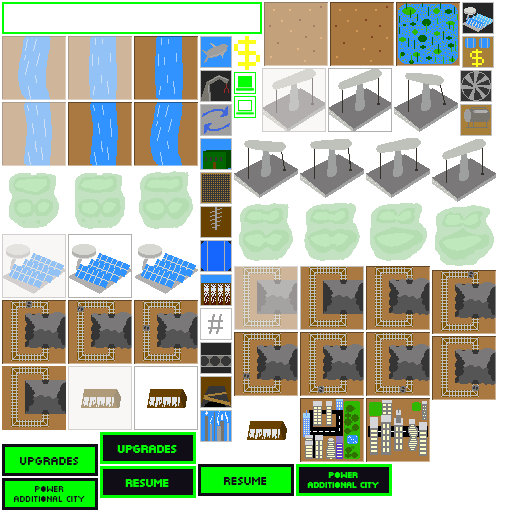
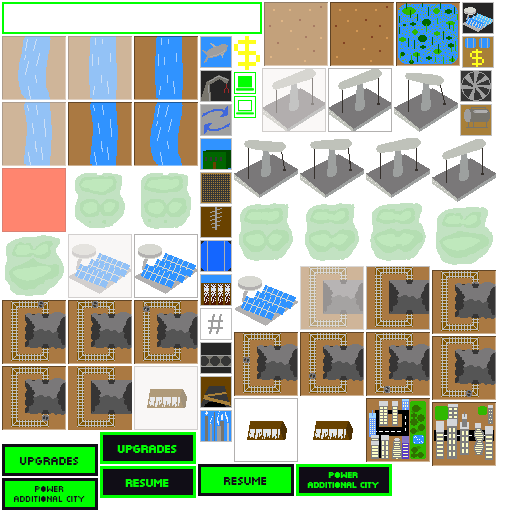
show effected tiles by pollution when building

diff --git a/src/systems/build_gatherer.rs b/src/systems/build_gatherer.rs
@@ -1,7 +1,7 @@
 use components::ui::WalletUI;
-use components::{ui::TutorialUI, upgrade::Buff, AnimationSheet, Button, ClickSound, Color,
+use components::{ui::TutorialUI, upgrade::Buff, AnimationSheet, Button, ClickSound, Color, EffectedByPollutionTiles,
                  EntityLookup, Gatherer, GathererPositions, GathererType, Input, Node,
-                 ResearchedBuffs, SelectedTile, Text, Tile, TileNodes, TileType, Transform,
+                 ResearchedBuffs, SelectedTile, Sprite, Text, Tile, TileNodes, TileType, Transform,
                  TutorialStep, Wallet};
 use entities::tutorial;
 use specs::{Entities, Join, Read, ReadStorage, System, Write, WriteStorage};
@@ -10,6 +10,15 @@ use systems::logic;
 
 pub struct BuildGatherer;
 
+impl BuildGatherer {
+    fn remove_effected_by_pollution_tiles_entities(&self, entities: &Entities, effected_by_pollution_tiles: &mut EffectedByPollutionTiles) {
+        for entity in &effected_by_pollution_tiles.tiles {
+            entities.delete(*entity).unwrap();
+        }
+        effected_by_pollution_tiles.clear();
+    }
+}
+
 impl<'a> System<'a> for BuildGatherer {
     type SystemData = (
         Entities<'a>,
@@ -17,6 +26,7 @@ impl<'a> System<'a> for BuildGatherer {
         WriteStorage<'a, Button>,
         Write<'a, ClickSound>,
         WriteStorage<'a, Color>,
+        WriteStorage<'a, EffectedByPollutionTiles>,
         Read<'a, EntityLookup>,
         WriteStorage<'a, Gatherer>,
         Write<'a, GathererPositions>,
@@ -25,6 +35,7 @@ impl<'a> System<'a> for BuildGatherer {
         Read<'a, TileNodes>,
         Read<'a, ResearchedBuffs>,
         ReadStorage<'a, SelectedTile>,
+        WriteStorage<'a, Sprite>,
         WriteStorage<'a, Text>,
         WriteStorage<'a, Transform>,
         Write<'a, TutorialStep>,
@@ -40,6 +51,7 @@ impl<'a> System<'a> for BuildGatherer {
             mut button_storage,
             mut click_sound_storage,
             mut color_storage,
+            mut effected_by_pollution_tiles_storage,
             entity_lookup_storage,
             mut gatherer_storage,
             mut gatherer_positions_storage,
@@ -48,6 +60,7 @@ impl<'a> System<'a> for BuildGatherer {
             tile_nodes_storage,
             researched_buffs_storage,
             selected_tile_storage,
+            mut sprite_storage,
             mut text_storage,
             mut transform_storage,
             tutorial_step_storage,
@@ -61,9 +74,73 @@ impl<'a> System<'a> for BuildGatherer {
         let wallet: &mut Wallet = wallet_storage.deref_mut();
         let lookup = entity_lookup_storage.deref();
 
+        let mut selected_tile_x = 0.0;
+        let mut selected_tile_y = 0.0;
+
+        for (_, transform) in (&selected_tile_storage, &mut transform_storage).join() {
+            if transform.visible {
+                selected_tile_x = transform.get_pos().x;
+                selected_tile_y = transform.get_pos().y;
+            }
+        }
+
+        let selected_tile_col = (selected_tile_x / Tile::get_size()) as i32;
+        let selected_tile_row = (selected_tile_y / Tile::get_size()) as i32;
+
+        let tile_nodes = tile_nodes_storage.deref();
+
         let mut button_pressed = false;
         let mut gatherer_type = None;
-        for button in (&mut button_storage).join() {
+        for (button, effected_by_pollution_tiles) in (&mut button_storage, &mut effected_by_pollution_tiles_storage).join() {
+            if button.name != "build_solar" {
+                if button.mouse_is_over && !effected_by_pollution_tiles.has_entities() {
+                    for i in -1..2 {
+                        for j in -1..2 {
+                            if button.name == "build_hydro" && (i != 0 || j != 0) {
+                                continue;
+                            } else if button.name != "build_hydro" && i == 0 && j == 0 {
+                                continue;
+                            }
+
+                            if let Some(&(tile_type, _)) = tile_nodes
+                                .nodes
+                                .get(&(selected_tile_col + i, selected_tile_row + j))
+                            {
+                                if tile_type != TileType::Open {
+                                    let entity = entities.create();
+                                    transform_storage.insert(
+                                        entity,
+                                        Transform::visible(
+                                            selected_tile_x + (i as f32) * Tile::get_size(),
+                                            selected_tile_y + (j as f32) * Tile::get_size(),
+                                            4.0,
+                                            64,
+                                            64,
+                                            0.0,
+                                            1.0,
+                                            1.0
+                                        )
+                                    ).unwrap();
+                                    sprite_storage.insert(
+                                        entity,
+                                        Sprite{
+                                            frame_name: "pollution_warning.png".to_string(),
+                                        }
+                                    ).unwrap();
+
+                                    effected_by_pollution_tiles.tiles.push(entity.clone());
+
+                                    let node = logic::get_root(&lookup, &mut nodes_storage);
+                                    node.add(entity);
+                                }
+                            }
+                        }
+                    }
+                } else if !button.mouse_is_over && effected_by_pollution_tiles.has_entities() {
+                    self.remove_effected_by_pollution_tiles_entities(&entities, effected_by_pollution_tiles);
+                }
+            }
+
             if button.name == "build_coal" && button.clicked(&input) {
                 button_pressed = true;
                 gatherer_type = Some(GathererType::Coal);
@@ -86,8 +163,6 @@ impl<'a> System<'a> for BuildGatherer {
         let researched_buffs = researched_buffs_storage.deref();
 
         let mut create = false;
-        let mut selected_tile_x = 0.0;
-        let mut selected_tile_y = 0.0;
         // spend the money, and hide selected tile
         if button_pressed {
             let mut amount = gatherer_type.unwrap().clone().get_build_cost();
@@ -129,11 +204,12 @@ impl<'a> System<'a> for BuildGatherer {
                 &nodes_storage,
                 TutorialStep::ResourcesSold,
             );
-            // create gatherer
-            let tile_nodes = tile_nodes_storage.deref();
-            let selected_tile_col = (selected_tile_x / Tile::get_size()) as i32;
-            let selected_tile_row = (selected_tile_y / Tile::get_size()) as i32;
 
+            for effected_by_pollution_tiles in (&mut effected_by_pollution_tiles_storage).join() {
+                self.remove_effected_by_pollution_tiles_entities(&entities, effected_by_pollution_tiles);
+            }
+
+            // create gatherer
             let gatherer_type = gatherer_type.unwrap();
 
             let mut pollution = 0i32;

diff --git a/src/entities/create_build_ui.rs b/src/entities/create_build_ui.rs
@@ -1,4 +1,4 @@
-use components::{Button, Color, GathererType, Node, Rect, ResearchedBuffs, Sprite, Text, TileType,
+use components::{Button, Color, EffectedByPollutionTiles, GathererType, Node, Rect, ResearchedBuffs, Sprite, Text, TileType,
                  Transform};
 use entities::{create_colored_rect, create_text, tech_tree::Buff};
 use renderer;
@@ -27,6 +27,7 @@ pub fn create<'a, 'b: 'a>(
     sprite_storage: &mut WriteStorage<'b, Sprite>,
     text_storage: &mut WriteStorage<'b, Text>,
     transform_storage: &mut WriteStorage<'b, Transform>,
+    effected_by_pollution_tiles_storage: &mut WriteStorage<'b, EffectedByPollutionTiles>,
     researched_buffs: &ResearchedBuffs,
 ) -> Entity {
     let mut new_entities = Vec::new();
@@ -57,6 +58,12 @@ pub fn create<'a, 'b: 'a>(
                 Sprite {
                     frame_name: "mine_button_1.png".to_string(),
                 },
+            )
+            .unwrap();
+        effected_by_pollution_tiles_storage
+            .insert(
+                coal_entity,
+                EffectedByPollutionTiles::new()
             )
             .unwrap();
         new_entities.push(coal_entity);
@@ -116,6 +123,12 @@ pub fn create<'a, 'b: 'a>(
                 },
             )
             .unwrap();
+        effected_by_pollution_tiles_storage
+            .insert(
+                oil_entity,
+                EffectedByPollutionTiles::new()
+            )
+            .unwrap();
 
         new_entities.push(oil_entity);
         let text = create_text::create(
@@ -165,6 +178,13 @@ pub fn create<'a, 'b: 'a>(
                 },
             )
             .unwrap();
+        // technically not needed for solar, but using it here so we can group these buttons
+        effected_by_pollution_tiles_storage
+            .insert(
+                solar_entity,
+                EffectedByPollutionTiles::new()
+            )
+            .unwrap();
 
         new_entities.push(solar_entity);
         let mut cost = GathererType::Solar.get_build_cost();
@@ -201,7 +221,6 @@ pub fn create<'a, 'b: 'a>(
                 Transform::visible(SPACING_F, SPACING_F, 0.0, SIZE, SIZE, 0.0, 1.0, 1.0),
             )
             .unwrap();
-
         button_storage
             .insert(
                 hydro_entity,
@@ -214,13 +233,18 @@ pub fn create<'a, 'b: 'a>(
                 ),
             )
             .unwrap();
-
         sprite_storage
             .insert(
                 hydro_entity,
                 Sprite {
                     frame_name: "hydro_button.png".to_string(),
                 },
+            )
+            .unwrap();
+        effected_by_pollution_tiles_storage
+            .insert(
+                hydro_entity,
+                EffectedByPollutionTiles::new()
             )
             .unwrap();
 

diff --git a/src/main.rs b/src/main.rs
@@ -34,6 +34,16 @@ mod storage_types;
 mod systems;
 mod utils;
 
+use std::ops::DerefMut;
+use std::time;
+
+use gfx::Device;
+use gfx_glyph::{GlyphBrush, GlyphBrushBuilder};
+use glutin::{dpi::LogicalSize, ElementState, Event, GlContext, MouseButton, VirtualKeyCode,
+             WindowEvent};
+use rodio::Source;
+use specs::{Entity, ReadStorage, World, WriteStorage};
+
 use components::ui::{TechTreeButton, TutorialUI, WalletUI};
 use components::{upgrade::{LearnProgress, Upgrade},
                  Actions,
@@ -43,6 +53,7 @@ use components::{upgrade::{LearnProgress, Upgrade},
                  ClickSound,
                  Color,
                  DeltaTime,
+                 EffectedByPollutionTiles,
                  EntityLookup,
                  FloatingText,
                  Gatherer,
@@ -60,20 +71,11 @@ use components::{upgrade::{LearnProgress, Upgrade},
                  Tile,
                  Transform,
                  TutorialStep};
-
-use gfx::Device;
-use gfx_glyph::{GlyphBrush, GlyphBrushBuilder};
-use glutin::{dpi::LogicalSize, ElementState, Event, GlContext, MouseButton, VirtualKeyCode,
-             WindowEvent};
 use renderer::{ColorFormat, DepthFormat};
-use rodio::Source;
 use settings::Settings;
-use specs::{Entity, ReadStorage, World, WriteStorage};
 use spritesheet::Spritesheet;
 use state::play_state::PlayState;
 use state::StateManager;
-use std::ops::DerefMut;
-use std::time;
 use utils::math;
 
 fn setup_world(world: &mut World, window: &glutin::Window) {
@@ -90,6 +92,7 @@ fn setup_world(world: &mut World, window: &glutin::Window) {
     world.register::<AnimationSheet>();
     world.register::<Button>();
     world.register::<Color>();
+    world.register::<EffectedByPollutionTiles>();
     world.register::<FloatingText>();
     world.register::<Gatherer>();
     world.register::<HighlightTile>();

diff --git a/src/systems/tile_selection.rs b/src/systems/tile_selection.rs
@@ -1,4 +1,4 @@
-use components::{ui::TutorialUI, Actions, Button, Color, EntityLookup, Gatherer, Input, Node,
+use components::{ui::TutorialUI, Actions, Button, Color, EffectedByPollutionTiles, EntityLookup, Gatherer, Input, Node,
                  Rect, ResearchedBuffs, SelectedTile, Sprite, Text, Tile, Transform, TutorialStep};
 use entities::{create_build_ui, recursive_delete, tutorial};
 use specs::{Entities, Entity, Join, Read, ReadStorage, System, Write, WriteStorage};
@@ -23,6 +23,7 @@ impl<'a> System<'a> for TileSelection {
         Write<'a, Actions>,
         WriteStorage<'a, Button>,
         WriteStorage<'a, Color>,
+        WriteStorage<'a, EffectedByPollutionTiles>,
         Read<'a, EntityLookup>,
         ReadStorage<'a, Gatherer>,
         Read<'a, Input>,
@@ -44,6 +45,7 @@ impl<'a> System<'a> for TileSelection {
             mut actions_storage,
             mut button_storage,
             mut color_storage,
+            mut effected_by_pollution_tiles_storage,
             entity_lookup_storage,
             gatherer_storage,
             input_storage,
@@ -112,6 +114,7 @@ impl<'a> System<'a> for TileSelection {
                     &mut sprite_storage,
                     &mut text_storage,
                     &mut transform_storage,
+                    &mut effected_by_pollution_tiles_storage,
                     &researched_buffs,
                 );
                 self.build_ui_entity = Some(entity);

diff --git a/src/components/effected_by_pollution_tiles.rs b/src/components/effected_by_pollution_tiles.rs
@@ -1,0 +1,25 @@
+use specs::{Component, Entity, HashMapStorage};
+
+pub struct EffectedByPollutionTiles {
+    pub tiles: Vec<Entity>,
+}
+
+impl EffectedByPollutionTiles {
+    pub fn new() -> Self {
+        EffectedByPollutionTiles{
+            tiles: Vec::with_capacity(8),
+        }
+    }
+
+    pub fn clear(&mut self) {
+        self.tiles.clear();
+    }
+
+    pub fn has_entities(&self) -> bool {
+        self.tiles.len() > 0
+    }
+}
+
+impl Component for EffectedByPollutionTiles {
+    type Storage = HashMapStorage<Self>;
+}

diff --git a/src/components/mod.rs b/src/components/mod.rs
@@ -6,6 +6,7 @@ mod city_power_state;
 mod click_sound;
 mod color;
 mod delta_time;
+mod effected_by_pollution_tiles;
 mod entity_lookup;
 mod floating_text;
 mod gatherer;
@@ -42,6 +43,7 @@ pub use self::city_power_state::*;
 pub use self::click_sound::*;
 pub use self::color::*;
 pub use self::delta_time::*;
+pub use self::effected_by_pollution_tiles::*;
 pub use self::entity_lookup::*;
 pub use self::floating_text::*;
 pub use self::gatherer::*;

diff --git a/src/components/node.rs b/src/components/node.rs
@@ -114,6 +114,7 @@ impl Node {
         transform_storage: &WriteStorage<'a, Transform>,
     ) {
         let mut removed = false;
+        // cleans up nodes for us, so we dont have to do it manually
         self.entities.retain(|e| {
             if world.is_alive(*e) {
                 return true;

diff --git a/src/components/city_power_state.rs b/src/components/city_power_state.rs
@@ -1,5 +1,3 @@
-use specs::Entity;
-
 // used to keep track of the entities that we can add new power bar sprites to
 #[derive(Default)]
 pub struct CityPowerState {
